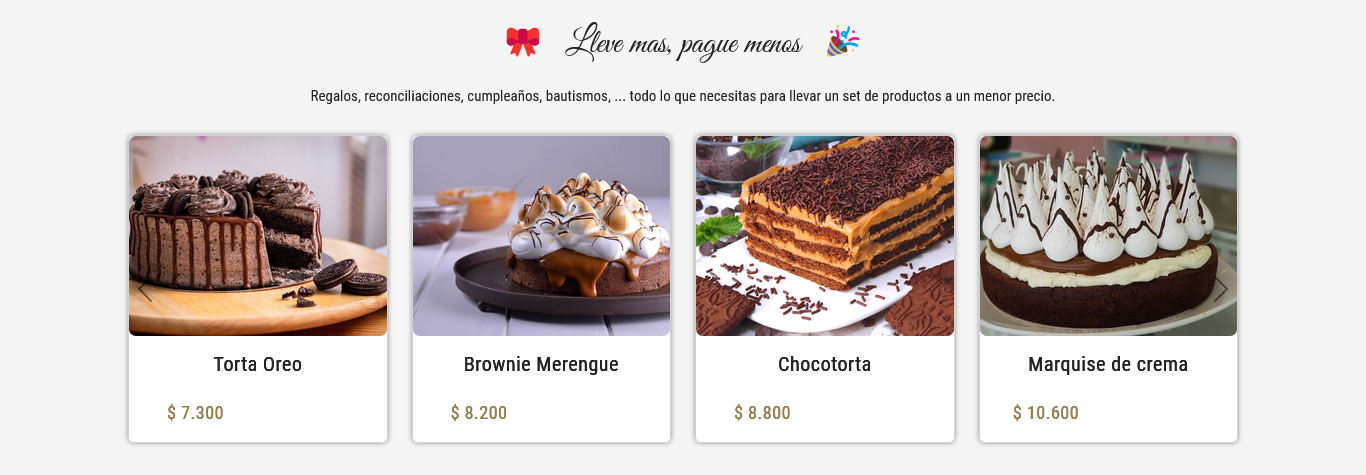
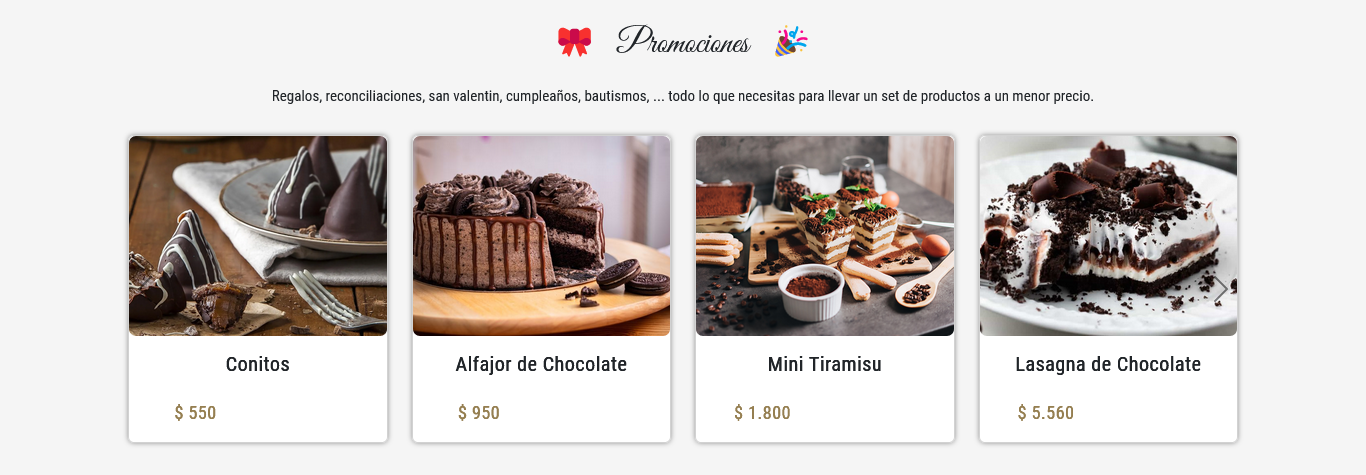
small settings

diff --git a/src/styles/Presentacion.css b/src/styles/Presentacion.css
@@ -13,6 +13,15 @@
     padding-left: 60px !important;
     padding-right: 60px !important;
   }
+
+  .foto-info Img {
+    width: 150px !important;
+    height: 150px !important;
+  }
+  
+  #presentacion-txt-info {
+    font-size: 15px;
+  }
 }
 
 #body-presentacion {
@@ -51,7 +60,6 @@ video {
 #presentacion-txt-info {
   font-family: txt-info, txt-info;
   color: var(--txt-color);
-  /*text-shadow: 0 0 10px #212529;*/
   text-align: justify;
   margin-top: 28px;
   margin-bottom: 28px;
@@ -73,12 +81,6 @@ video {
   width: 100%;
   height: calc(100vh - 60px);
   align-items: center;
-  /*
-  top: 0; 
-  display: flex;
-  flex-direction: column;
-  justify-content: center;
-  align-items: center;*/
 }
 
 .contain-info .row {
@@ -104,5 +106,5 @@ video {
   width: 32px;
   height: 32px;
   margin: 0 auto;
-  -webkit-filter: drop-shadow(0px 0px 5px #957f51);
+  filter: drop-shadow(0px 0px 5px #957f51);
 }

diff --git a/src/containers/Promos.js b/src/containers/Promos.js
@@ -51,10 +51,10 @@ class Promos extends React.Component {
       <React.Fragment>
         <div id="container-promos">
           <div id="container-promo-title">
-            🎀<span id="txt-title-promo">Lleve mas, pague menos</span>🎉
+            🎀<span id="txt-title-promo">Promociones</span>🎉
           </div>
           <div id="container-promo-subtitle">
-            Regalos, reconciliaciones, cumpleaños, bautismos, ... todo lo que
+            Regalos, reconciliaciones, san valentin, cumpleaños, bautismos, ... todo lo que
             necesitas para llevar un set de productos a un menor precio.
           </div>
           {/* Carousel */}

diff --git a/src/styles/Productos.css b/src/styles/Productos.css
@@ -16,8 +16,8 @@
   }
   
   #txt-title-producto {
-    padding-left: 2px !important;
-    padding-right: 2px !important;
+    padding-left: 10px !important;
+    padding-right: 10px !important;
   }
 }
 

diff --git a/src/styles/Promos.css b/src/styles/Promos.css
@@ -15,8 +15,8 @@
   }
 
   #txt-title-promo {
-    padding-left: 2px !important;
-    padding-right: 2px !important;
+    padding-left: 10px !important;
+    padding-right: 10px !important;
   }
 }
 
